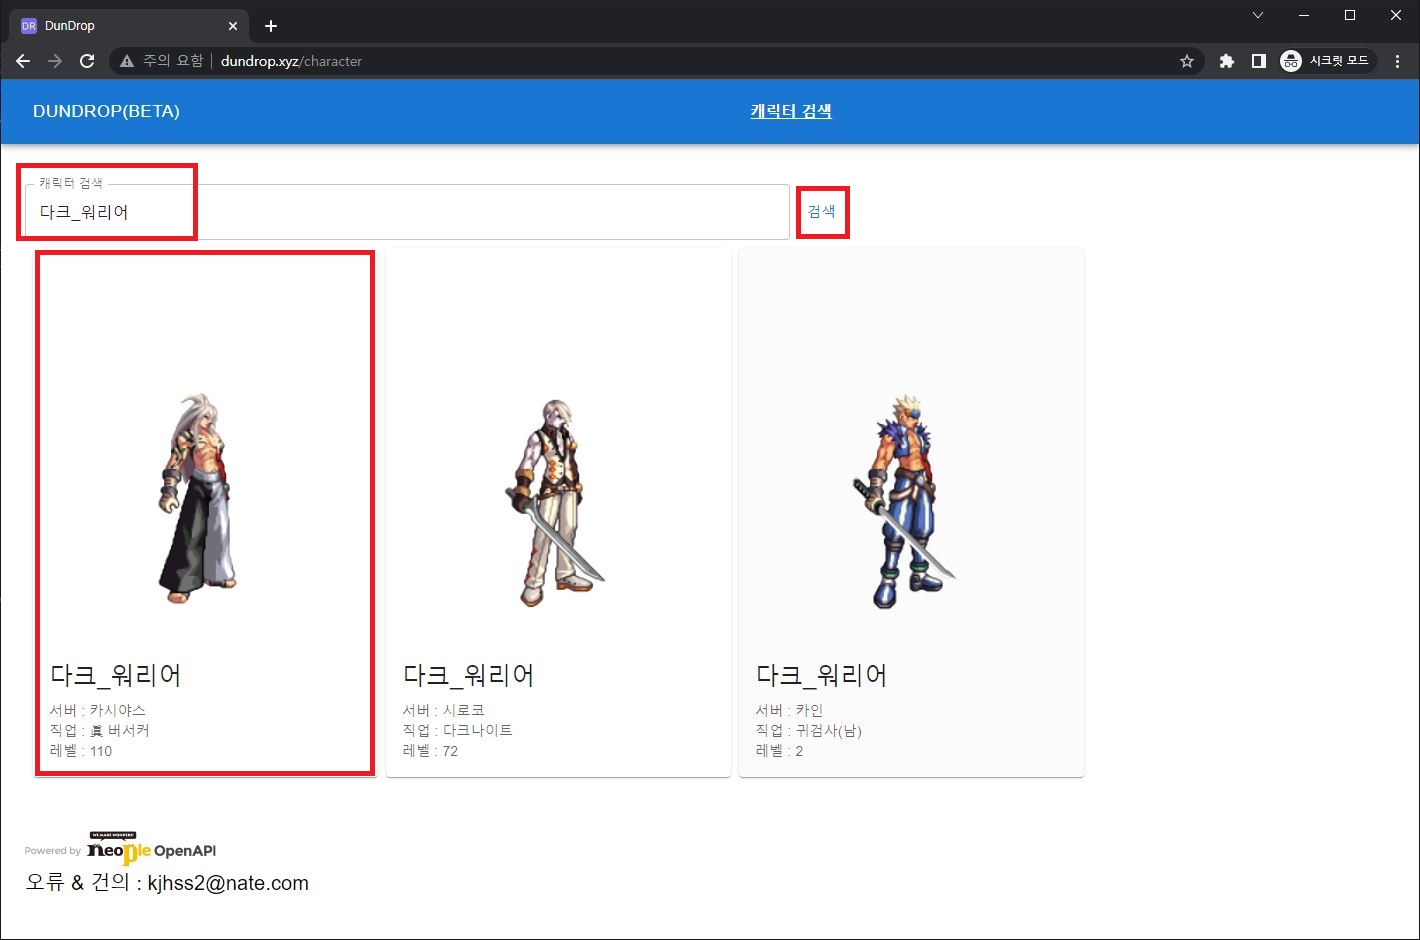
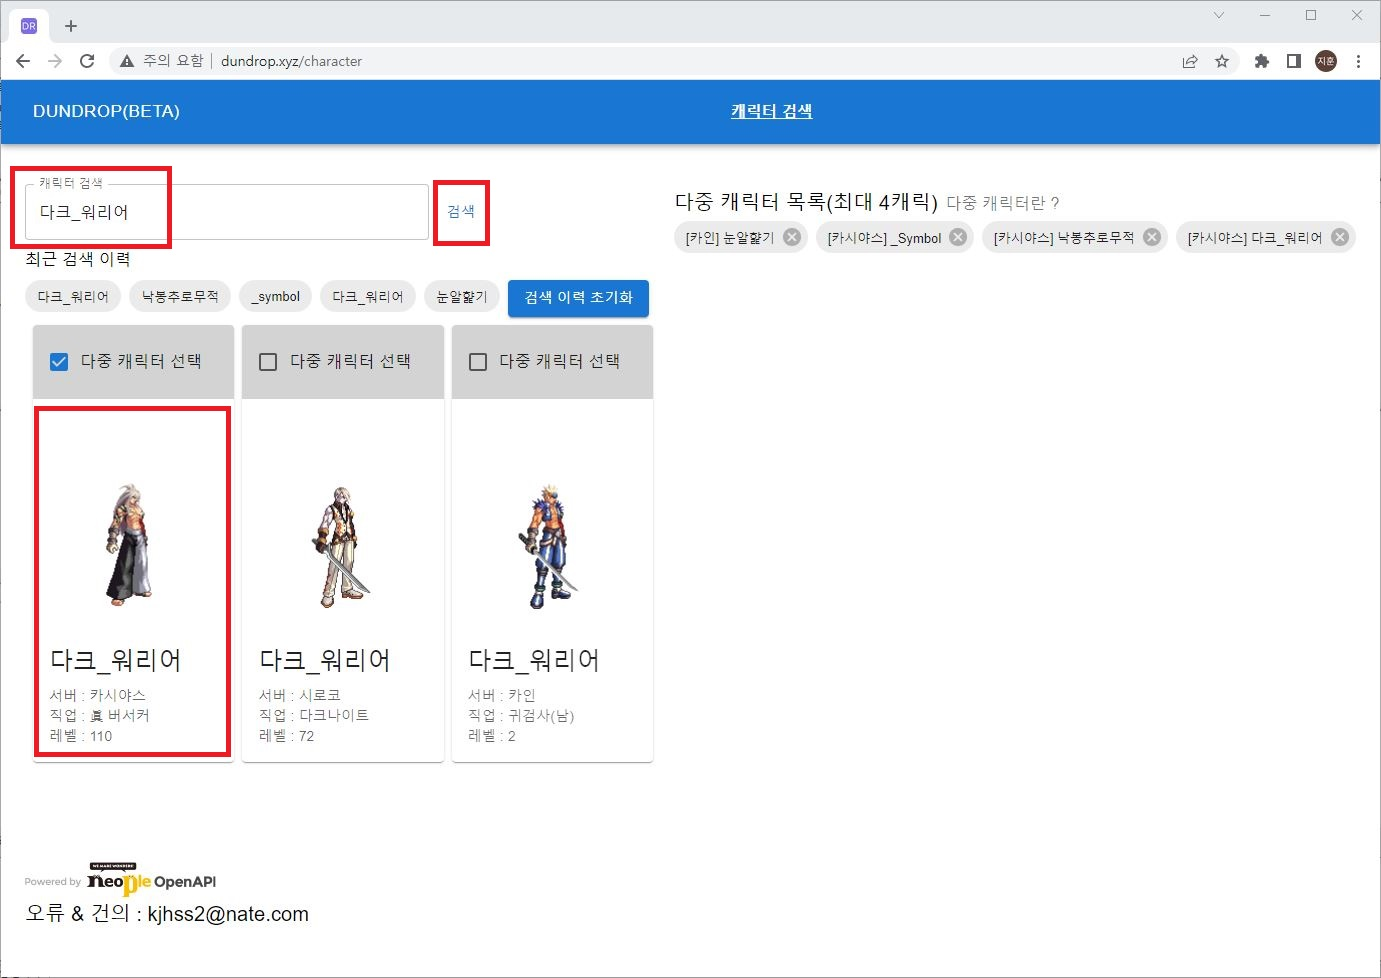
DD-1 #comment : 가이드 업데이트

diff --git a/src/components/Guide.js b/src/components/Guide.js
@@ -18,6 +18,8 @@ const guides = [
   { src: require('../lib/img/guide/guide13.JPG'), alt: '가이드13', desc: '13. 캐릭터가 장착중인 아이템 TAG 요약이 표시 됩니다. 보유한 TAG가 많은 순서대로 정렬됩니다.' },
   { src: require('../lib/img/guide/guide14.JPG'), alt: '가이드14', desc: '14. 보유 아이템 전체 시트 신규 기능입니다. 보유한 아이템의 전체 TAG 요약이 표시됩니다. TAG가 많은 순서대로 정렬되어 세팅하시는데 참고하시면 됩니다. TAG 요약 숨기기 버튼을 누르면 보유 아이템 TAG 요약이 숨김 처리 됩니다.' },
   { src: require('../lib/img/guide/guide15.JPG'), alt: '가이드15', desc: '15. 장착 아이템 탭 입니다. 현재 캐릭터가 장착중인 아이템 목록과 105레벨 아이템의 경우 피해증가/버프/성장 레벨이 표시됩니다.' },
+  { src: require('../lib/img/guide/guide16.JPG'), alt: '가이드16', desc: '16. 다중 캐릭터 선택 기능에 대해 설명 드리겠습니다. 다중 캐릭터는 최대 4개 까지 선택가능하며 선택한 캐릭터들의 TAG검색 화면에서 아이템을 검색하면 다중 캐릭터에 등록된 캐릭터별 아이템 획득이력 여부가 표시 됩니다.' },
+  { src: require('../lib/img/guide/guide17.JPG'), alt: '가이드17', desc: '17. 다중 캐릭터를 지정후 아무 캐릭터를 선택 후 TAG검색 메뉴에서 아이템명을 검색하시면 다중 캐릭터를 지정한 캐릭별로 아이템 획득이력 여부가 표시 됩니다. 획득한 이력이 존재하면 연두색, 획득한 이력이 존재하지 않으면 회색으로 표시됩니다.' },
 ];
 
 const Guide = () => {
